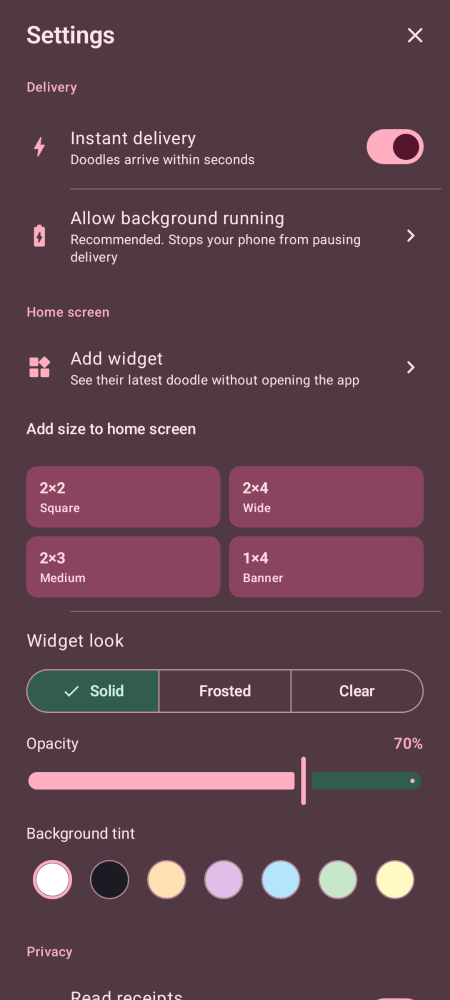
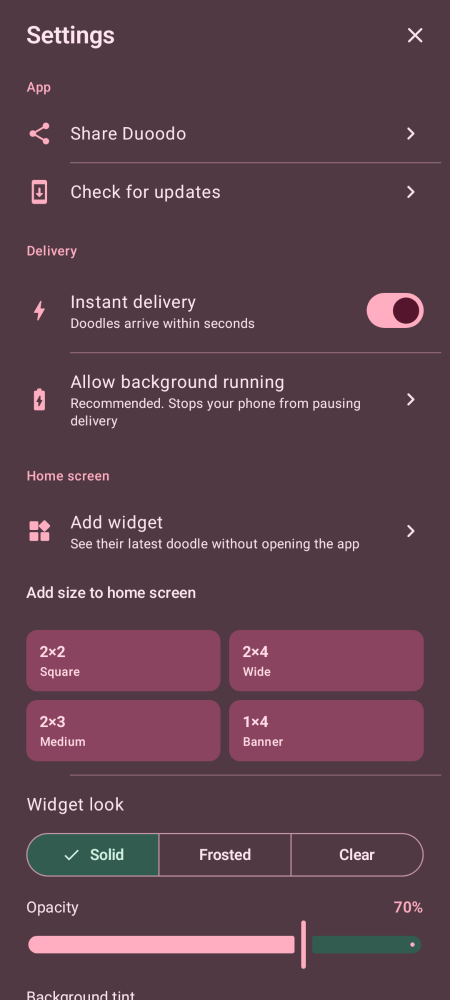
Add share and update functionality to SettingsTab, enhance tests and update snapshots

diff --git a/app/src/main/java/app/duoodo/ui/SettingsTab.kt b/app/src/main/java/app/duoodo/ui/SettingsTab.kt
@@ -1,10 +1,13 @@
 package app.duoodo.ui
 
 import android.annotation.SuppressLint
+import android.content.ActivityNotFoundException
+import android.content.Context
 import android.content.Intent
 import android.net.Uri
 import android.os.PowerManager
 import android.provider.Settings
+import android.widget.Toast
 import androidx.compose.foundation.background
 import androidx.compose.foundation.border
 import androidx.compose.foundation.clickable
@@ -31,6 +34,8 @@ import androidx.compose.material.icons.automirrored.rounded.KeyboardArrowRight
 import androidx.compose.material.icons.rounded.BatteryChargingFull
 import androidx.compose.material.icons.rounded.Bolt
 import androidx.compose.material.icons.rounded.LinkOff
+import androidx.compose.material.icons.rounded.Share
+import androidx.compose.material.icons.rounded.SystemUpdate
 import androidx.compose.material.icons.rounded.VerifiedUser
 import androidx.compose.material.icons.rounded.Visibility
 import androidx.compose.material.icons.rounded.Widgets
@@ -69,6 +74,27 @@ import app.duoodo.ui.components.SectionCard
 import app.duoodo.widget.DuoodoWidget
 import kotlin.math.roundToInt
 
+private const val LATEST_RELEASE_URL = "https://github.com/dil2743/Duoodo/releases/latest"
+
+internal fun latestReleaseIntent() = Intent(Intent.ACTION_VIEW, Uri.parse(LATEST_RELEASE_URL))
+
+internal fun shareAppIntent(): Intent = Intent.createChooser(
+    Intent(Intent.ACTION_SEND).apply {
+        type = "text/plain"
+        putExtra(Intent.EXTRA_SUBJECT, "Duoodo")
+        putExtra(Intent.EXTRA_TEXT, "Doodle together with Duoodo: $LATEST_RELEASE_URL")
+    },
+    "Share Duoodo",
+)
+
+private fun Context.launchSettingsIntent(intent: Intent) {
+    try {
+        startActivity(intent)
+    } catch (_: ActivityNotFoundException) {
+        Toast.makeText(this, "No app available for this action", Toast.LENGTH_SHORT).show()
+    }
+}
+
 @Composable
 fun SettingsTab(vm: MainViewModel) {
     val context = LocalContext.current
@@ -102,6 +128,8 @@ fun SettingsTab(vm: MainViewModel) {
             runCatching { context.startActivity(intent) }
         },
         onUnpair = vm::unpair,
+        onShareApp = { context.launchSettingsIntent(shareAppIntent()) },
+        onCheckForUpdates = { context.launchSettingsIntent(latestReleaseIntent()) },
     )
 }
 
@@ -124,6 +152,8 @@ fun SettingsContent(
     onPinWidget: (DuoodoWidget.Size) -> Unit,
     onBatterySettings: () -> Unit,
     onUnpair: () -> Unit,
+    onShareApp: () -> Unit,
+    onCheckForUpdates: () -> Unit,
 ) {
     var confirmUnpair by remember { mutableStateOf(false) }
     Box(Modifier.fillMaxSize(), contentAlignment = Alignment.TopCenter) {
@@ -131,6 +161,22 @@ fun SettingsContent(
         Modifier.widthIn(max = 600.dp).fillMaxSize().verticalScroll(rememberScrollState()).padding(horizontal = 8.dp, vertical = 8.dp),
         verticalArrangement = Arrangement.spacedBy(20.dp),
     ) {
+        SectionCard("App") {
+            SettingRow(
+                icon = Icons.Rounded.Share,
+                title = "Share Duoodo",
+                trailing = { Chevron() },
+                onClick = onShareApp,
+            )
+            RowDivider()
+            SettingRow(
+                icon = Icons.Rounded.SystemUpdate,
+                title = "Check for updates",
+                trailing = { Chevron() },
+                onClick = onCheckForUpdates,
+            )
+        }
+
         SectionCard("Delivery") {
             SettingRow(
                 icon = Icons.Rounded.Bolt,

diff --git a/app/src/test/java/app/duoodo/ui/ScreenshotTest.kt b/app/src/test/java/app/duoodo/ui/ScreenshotTest.kt
@@ -1,5 +1,6 @@
 package app.duoodo.ui
 
+import android.content.Intent
 import androidx.activity.compose.LocalActivityResultRegistryOwner
 import androidx.activity.result.ActivityResultRegistry
 import androidx.activity.result.ActivityResultRegistryOwner
@@ -207,6 +208,23 @@ class ScreenshotTest(private val night: Boolean) {
 
     @Test fun inboxWithDoodle() = shot { InboxContent(sample, false, {}, {}, {}) }
 
+    @Suppress("DEPRECATION")
+    @Test fun appReleaseIntents() {
+        val releaseUrl = "https://github.com/dil2743/Duoodo/releases/latest"
+        val update = latestReleaseIntent()
+        assertEquals(Intent.ACTION_VIEW, update.action)
+        assertEquals(releaseUrl, update.data.toString())
+
+        val chooser = shareAppIntent()
+        assertEquals(Intent.ACTION_CHOOSER, chooser.action)
+        val share = chooser.getParcelableExtra<Intent>(Intent.EXTRA_INTENT)!!
+        assertEquals(Intent.ACTION_SEND, share.action)
+        assertEquals("text/plain", share.type)
+        assertEquals("Duoodo", share.getStringExtra(Intent.EXTRA_SUBJECT))
+        assertEquals("Doodle together with Duoodo: $releaseUrl", share.getStringExtra(Intent.EXTRA_TEXT))
+        assertFalse(share.hasExtra(Intent.EXTRA_STREAM))
+    }
+
     @Composable
     private fun home(panel: HomePanel? = null, drawing: DrawingState? = null, partnerPeeked: Boolean = false) {
         val drawingState = drawing ?: remember { DrawingState() }
@@ -229,6 +247,8 @@ class ScreenshotTest(private val night: Boolean) {
                     onPinWidget = {},
                     onBatterySettings = {},
                     onUnpair = {},
+                    onShareApp = {},
+                    onCheckForUpdates = {},
                 )
         }
         if (panel != null) {
